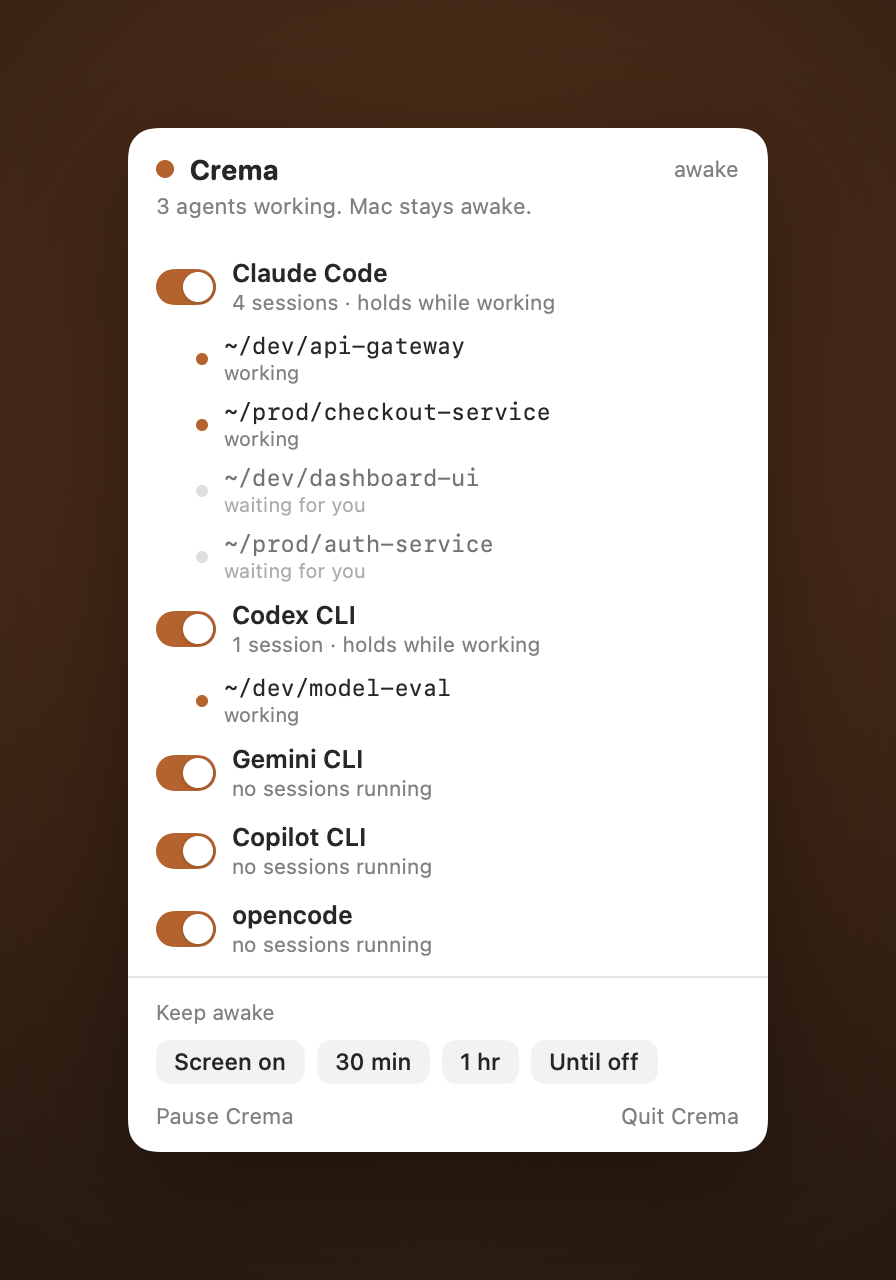
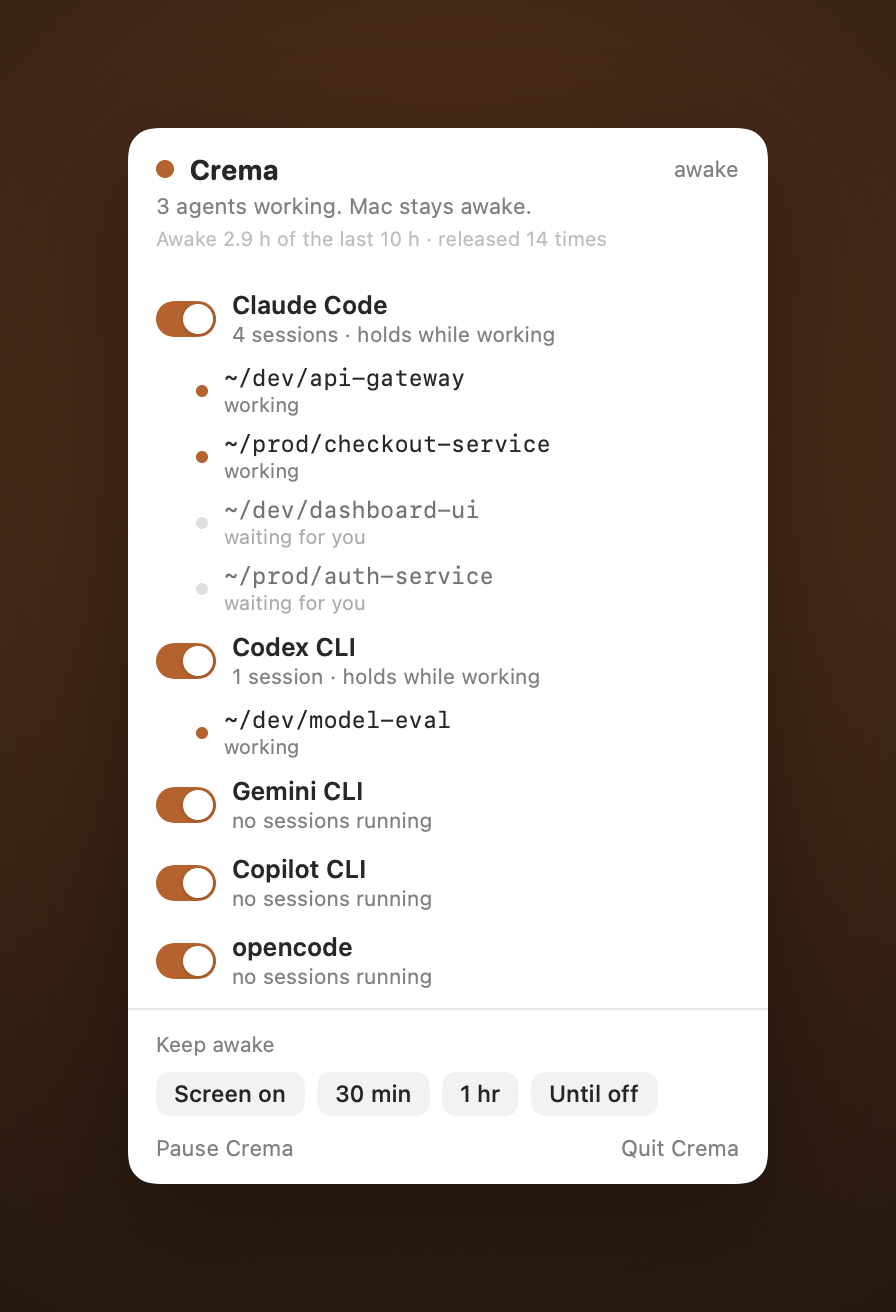
Awake ledger: the popover shows how long Crema actually held the Mac (#17)
One honest, falsifiable line under the headline: 'Awake 2.9 h of
the last 10 h, released 14 times'. HoldLedger (CremaCore, tested)
keeps a collapsed, window-pruned event list; the app persists it in
UserDefaults and records on every tick. Hidden until an hour of
history exists. Demo mode pins a fixed line so marketing shots stay
synthetic; the real ledger is never written in demo mode. Launch
rationale: the rubric's reproducible-number gap, and the receipt
surface for the X lane.

diff --git a/Sources/CremaCore/HoldLedger.swift b/Sources/CremaCore/HoldLedger.swift
@@ -1,0 +1,70 @@
+import Foundation
+
+/// Rolling record of when Crema held the Mac awake, so the popover can show
+/// an honest, falsifiable ledger line ("Awake 2.9 h of the last 10 h,
+/// released 14 times"). Events collapse consecutive states and are pruned to
+/// the trailing window, so the array stays tiny.
+public struct HoldLedger: Codable, Equatable {
+    public struct Event: Codable, Equatable {
+        public var held: Bool
+        public var at: Date
+
+        public init(held: Bool, at: Date) {
+            self.held = held
+            self.at = at
+        }
+    }
+
+    public private(set) var events: [Event] = []
+    public var window: TimeInterval = 24 * 3600
+
+    public init() {}
+
+    /// Record the current hold state. Consecutive identical states collapse
+    /// into the first occurrence.
+    public mutating func record(held: Bool, at: Date = Date()) {
+        if events.last?.held == held { return }
+        events.append(Event(held: held, at: at))
+        prune(now: at)
+    }
+
+    /// Drop events older than the window, clamping the earliest survivor to
+    /// the window edge so held time never counts beyond it.
+    mutating func prune(now: Date) {
+        let cutoff = now.addingTimeInterval(-window)
+        while events.count > 1, events[1].at <= cutoff {
+            events.removeFirst()
+        }
+        if let first = events.first, first.at < cutoff {
+            events[0] = Event(held: first.held, at: cutoff)
+        }
+    }
+
+    public struct Summary: Equatable {
+        public var heldSeconds: TimeInterval
+        public var spanSeconds: TimeInterval
+        public var releaseCount: Int
+
+        public init(heldSeconds: TimeInterval, spanSeconds: TimeInterval, releaseCount: Int) {
+            self.heldSeconds = heldSeconds
+            self.spanSeconds = spanSeconds
+            self.releaseCount = releaseCount
+        }
+    }
+
+    public func summary(now: Date = Date()) -> Summary {
+        guard let first = events.first else {
+            return Summary(heldSeconds: 0, spanSeconds: 0, releaseCount: 0)
+        }
+        var held: TimeInterval = 0
+        var releases = 0
+        for (index, event) in events.enumerated() {
+            let end = index + 1 < events.count ? events[index + 1].at : now
+            if event.held { held += max(0, end.timeIntervalSince(event.at)) }
+            if !event.held && index > 0 { releases += 1 }
+        }
+        return Summary(heldSeconds: held,
+                       spanSeconds: max(0, now.timeIntervalSince(first.at)),
+                       releaseCount: releases)
+    }
+}

diff --git a/Tests/CremaCoreTests/HoldLedgerTests.swift b/Tests/CremaCoreTests/HoldLedgerTests.swift
@@ -1,0 +1,64 @@
+import XCTest
+@testable import CremaCore
+
+final class HoldLedgerTests: XCTestCase {
+    let t0 = Date(timeIntervalSince1970: 1_700_000_000)
+    func at(_ minutes: Double) -> Date { t0.addingTimeInterval(minutes * 60) }
+
+    func testConsecutiveStatesCollapse() {
+        var ledger = HoldLedger()
+        ledger.record(held: true, at: at(0))
+        ledger.record(held: true, at: at(5))
+        XCTAssertEqual(ledger.events.count, 1)
+    }
+
+    func testHeldTimeIncludesOngoingHold() {
+        var ledger = HoldLedger()
+        ledger.record(held: true, at: at(0))
+        let s = ledger.summary(now: at(90))
+        XCTAssertEqual(s.heldSeconds, 90 * 60, accuracy: 1)
+        XCTAssertEqual(s.spanSeconds, 90 * 60, accuracy: 1)
+        XCTAssertEqual(s.releaseCount, 0)
+    }
+
+    func testHeldTimeAndReleasesAcrossTransitions() {
+        var ledger = HoldLedger()
+        ledger.record(held: true, at: at(0))
+        ledger.record(held: false, at: at(60))    // release 1 after 1h held
+        ledger.record(held: true, at: at(120))
+        ledger.record(held: false, at: at(150))   // release 2 after 30m held
+        let s = ledger.summary(now: at(600))
+        XCTAssertEqual(s.heldSeconds, 90 * 60, accuracy: 1)
+        XCTAssertEqual(s.spanSeconds, 600 * 60, accuracy: 1)
+        XCTAssertEqual(s.releaseCount, 2)
+    }
+
+    func testLeadingReleaseIsNotCounted() {
+        var ledger = HoldLedger()
+        ledger.record(held: false, at: at(0))
+        ledger.record(held: true, at: at(10))
+        let s = ledger.summary(now: at(20))
+        XCTAssertEqual(s.releaseCount, 0)
+        XCTAssertEqual(s.heldSeconds, 10 * 60, accuracy: 1)
+    }
+
+    func testPruneClampsToWindow() {
+        var ledger = HoldLedger()
+        ledger.window = 60 * 60   // 1h window for the test
+        ledger.record(held: true, at: at(0))
+        ledger.record(held: false, at: at(30))
+        ledger.record(held: true, at: at(200))    // prunes: cutoff is 140
+        let s = ledger.summary(now: at(200))
+        XCTAssertEqual(s.spanSeconds, 60 * 60, accuracy: 1)
+        XCTAssertEqual(s.heldSeconds, 0, accuracy: 1, "pre-window held time must not leak in")
+    }
+
+    func testRoundTripsThroughCodable() throws {
+        var ledger = HoldLedger()
+        ledger.record(held: true, at: at(0))
+        ledger.record(held: false, at: at(60))
+        let data = try JSONEncoder().encode(ledger)
+        let back = try JSONDecoder().decode(HoldLedger.self, from: data)
+        XCTAssertEqual(back, ledger)
+    }
+}

diff --git a/Sources/Crema/AppModel.swift b/Sources/Crema/AppModel.swift
@@ -9,6 +9,7 @@ final class AppModel: ObservableObject {
     @Published private(set) var sessions: [AgentSession] = []
     @Published private(set) var decision = decidePower(PowerInputs())
     @Published private(set) var runningBatchRuleIDs: [String] = []
+    @Published private(set) var ledger = AppModel.loadLedger()
     @Published var rules: [Rule] = Rule.defaults()
 
     // User intent.
@@ -118,6 +119,7 @@ final class AppModel: ObservableObject {
                 self.sessions = output.sessions
                 self.decision = output.decision
                 self.runningBatchRuleIDs = output.runningBatchRuleIDs
+                self.recordLedger(held: output.decision.systemHold)
                 self.scanning = false
             }
         }
@@ -165,4 +167,41 @@ final class AppModel: ObservableObject {
 
     var workingCount: Int { sessions.filter(\.isWorking).count }
     var waitingCount: Int { sessions.filter { !$0.isWorking }.count }
+
+    // MARK: - Awake ledger
+
+    private static let ledgerKey = "holdLedger"
+
+    /// One honest, falsifiable line: how long Crema actually held the Mac
+    /// awake over the trailing day, and how often it let go. Hidden until an
+    /// hour of history exists so it never shows "2 min of the last 2 min".
+    var ledgerLine: String? {
+        if DemoMode.enabled { return "Awake 2.9 h of the last 10 h · released 14 times" }
+        let s = ledger.summary()
+        guard s.spanSeconds >= 3600 else { return nil }
+        let released = s.releaseCount == 1 ? "released once" : "released \(s.releaseCount) times"
+        return "Awake \(Self.hours(s.heldSeconds)) of the last \(Self.hours(s.spanSeconds)) · \(released)"
+    }
+
+    private func recordLedger(held: Bool) {
+        let before = ledger
+        ledger.record(held: held)
+        guard ledger != before else { return }
+        if let data = try? JSONEncoder().encode(ledger) {
+            UserDefaults.standard.set(data, forKey: Self.ledgerKey)
+        }
+    }
+
+    private static func loadLedger() -> HoldLedger {
+        guard let data = UserDefaults.standard.data(forKey: ledgerKey),
+              let stored = try? JSONDecoder().decode(HoldLedger.self, from: data) else {
+            return HoldLedger()
+        }
+        return stored
+    }
+
+    private static func hours(_ seconds: TimeInterval) -> String {
+        seconds < 3600 ? "\(max(1, Int(seconds / 60))) min"
+                       : String(format: "%.1f h", seconds / 3600)
+    }
 }

diff --git a/Sources/Crema/PopoverView.swift b/Sources/Crema/PopoverView.swift
@@ -43,6 +43,11 @@ struct PopoverView: View {
                 .font(.system(size: 11))
                 .foregroundStyle(.secondary)
                 .fixedSize(horizontal: false, vertical: true)
+            if let line = model.ledgerLine {
+                Text(line)
+                    .font(.system(size: 10))
+                    .foregroundStyle(.tertiary)
+            }
         }
         .padding(.horizontal, 14)
         .padding(.top, 12)

diff --git a/README.md b/README.md
@@ -12,6 +12,7 @@ The old keep-awake tools answer the wrong question. They know whether *you* clic
 
 ## What it does
 
+- **Shows its receipts.** A rolling ledger in the popover: how long Crema actually held the Mac awake over the last day, and how many times it let go. A keep-awake app should be able to prove it lets your Mac sleep.
 - **Holds the Mac awake while any watched agent is mid-turn.** When every agent goes quiet, a short grace window runs out and the Mac is free to sleep. Per session, not per app: one agent working keeps you awake while the rest sit idle.
 - **Shows working vs waiting.** The popover lists each session, its folder, and whether it is working or waiting for you. The menu bar count is agents mid-turn. When it hits zero, everything is waiting on you.
 - **Hold it yourself too.** All agents finished but you are still reading the diff? Keep the Mac awake for 30 minutes, an hour, or until you turn it off. Screen on mode also stops the display from dimming.
